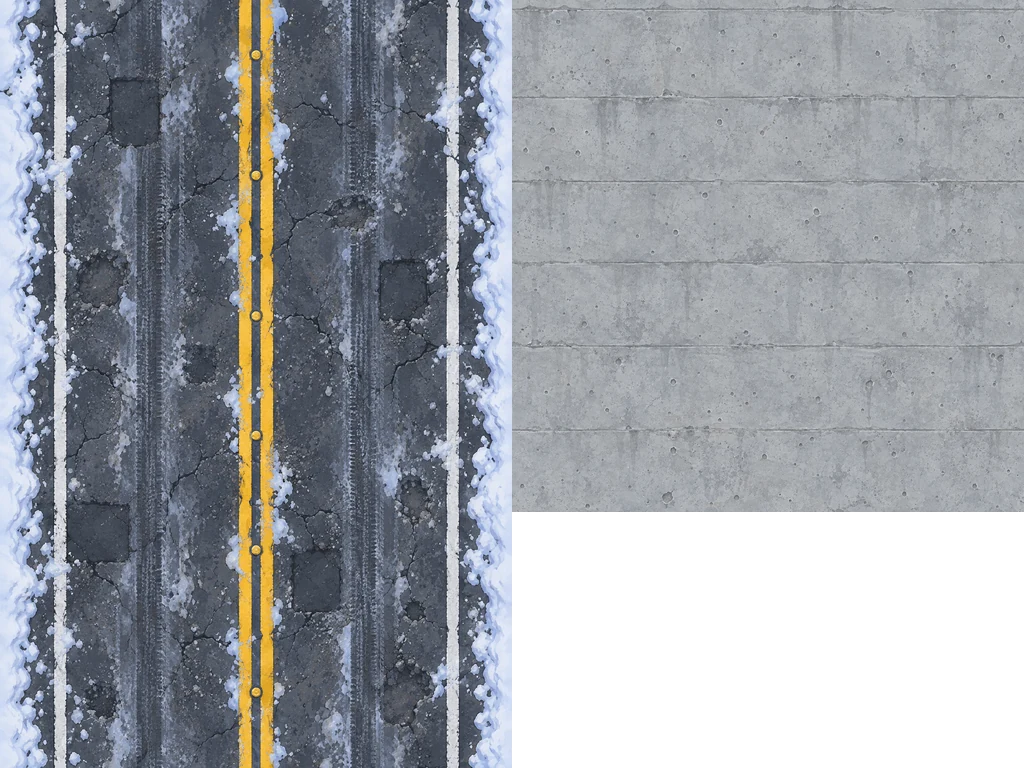
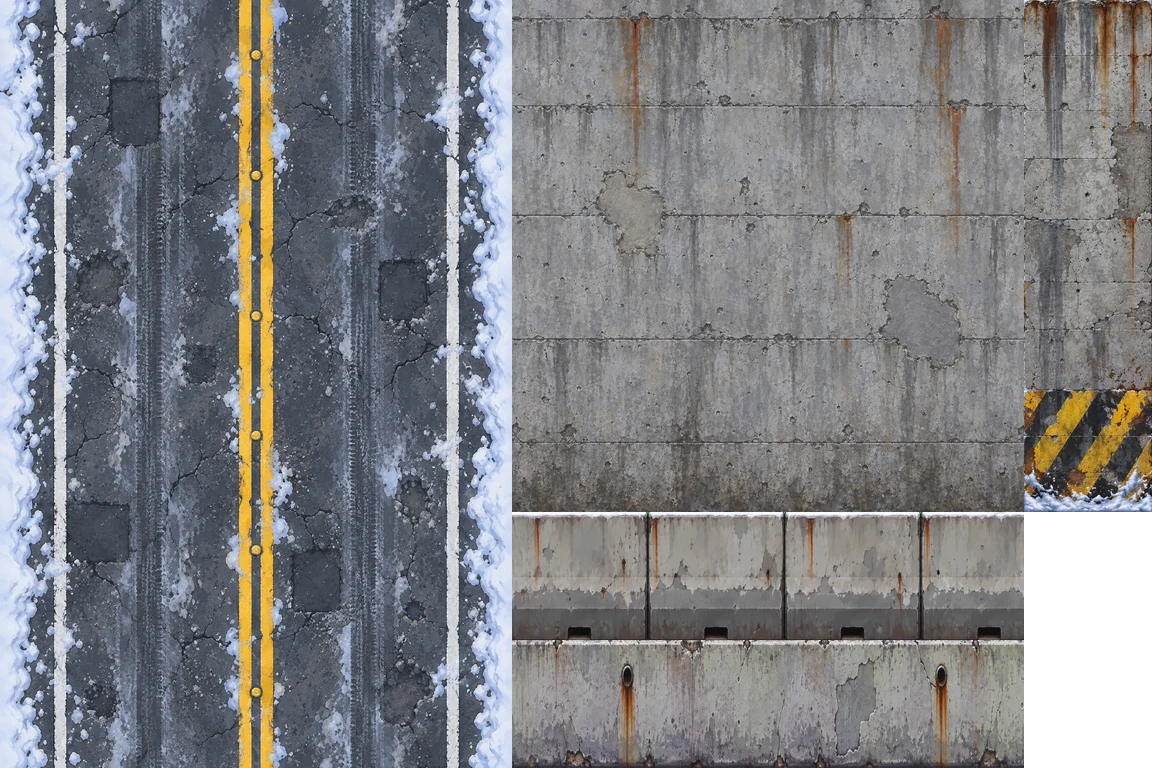
Viaduct sides in old Brazilian concrete (option B): barrier blocks, beam, pillar, pier caps
The user found the plain concrete of the sides and pillars flat. The faces'
atlas now has its own painted region per face (Codex, option B): New Jersey
barrier blocks and the slab's edge beam (bands that tile along, one block a
cell, mapped from the piece's own top to bottom so they follow the ramp), a
pillar's face (hazard stripes at the foot) and the ramp's wall. Each pillar
carries a pier cap under the slab.

diff --git a/src/client/render/city/viaduct.ts b/src/client/render/city/viaduct.ts
@@ -22,6 +22,8 @@ import {UNO_CELL,UNO_FOOT,UNO_KEY,UNO_SCALE,UNO_URL,unoFootY,unoFrame} from '../
 export const DECK_SLAB=.6,PARAPET=.6;
 /** Parapet thickness (u) and pillar side (u). */
 export const PARAPET_WIDTH=.22,PILLAR_SIDE=.8;
+/** The pier cap on each pillar, under the slab (etapa 5, option B): its side and height (u). */
+export const CAP_SIDE=1.3,CAP_HEIGHT=.45;
 /** While the local hero is under the deck, the strips within this radius (u) draw at this alpha (plan §4: ~35 %). */
 export const UNDER_RADIUS=4,UNDER_ALPHA=.35;
 /** Depth keys a body on a deck strip sits above the strip (under the next strip in front: a strip is ~300 keys deep). */
@@ -36,8 +38,8 @@ export const DECK_OVER=.5;
 
 /** A box of the viaduct in world units: its footprint and its top/bottom height at the footprint's 4 corners. */
 export interface ViaductPiece {
-  kind:'deck'|'ramp'|'pillar'|'parapet'|'shadow'|'car';
-  /** Which strip it belongs to (deck and ramp pieces and their parapets share their strip's index; pillars their own). */
+  kind:'deck'|'ramp'|'pillar'|'cap'|'parapet'|'shadow'|'car';
+  /** Which strip it belongs to (deck and ramp pieces and their parapets share their strip's index; a pillar and its cap theirs). */
   strip:number;
   x0:number;y0:number;x1:number;y1:number;
   /** Heights (u) at the corners (x0,y0), (x1,y0), (x1,y1), (x0,y1). */
@@ -80,10 +82,11 @@ export function viaductPieces(v:CityViaduct,unit:number):ViaductPiece[]{
     out.push({kind:'ramp',strip,x0,y0,x1,y1,top,bottom:flat(0)});
     parapets(x0,y0,x1,y1,top,along?c===rc:r===rr,along?c===rc+rw-1:r===rr+rh-1);
   }
-  // Pillars, each its own strip.
+  // Pillars, each its own strip with its cap on top.
   for(const [c,r] of v.pillars){
-    const cx=(c+.5)*unit,cy=(r+.5)*unit,s=PILLAR_SIDE/2;
-    out.push({kind:'pillar',strip:strip++,x0:cx-s,y0:cy-s,x1:cx+s,y1:cy+s,top:flat(h-DECK_SLAB),bottom:flat(0)});
+    const cx=(c+.5)*unit,cy=(r+.5)*unit,s=PILLAR_SIDE/2,k=CAP_SIDE/2,under=h-DECK_SLAB;
+    out.push({kind:'pillar',strip,x0:cx-s,y0:cy-s,x1:cx+s,y1:cy+s,top:flat(under-CAP_HEIGHT),bottom:flat(0)});
+    out.push({kind:'cap',strip:strip++,x0:cx-k,y0:cy-k,x1:cx+k,y1:cy+k,top:flat(under),bottom:flat(under-CAP_HEIGHT)});
   }
   // The deck's shadow on the street (a flat decal, drawn on the ground).
   out.push({kind:'shadow',strip:-1,x0:dc*unit,y0:dr*unit,x1:(dc+dw)*unit,y1:(dr+dh)*unit,top:flat(0),bottom:flat(0)});
@@ -113,13 +116,17 @@ const CAR_RED=0xc0473a,PILE=[0x5b7fa8,0x8f8a7a,0xd6a23c] as const;
 /**
  * The faces' art (etapa 4, scripts/import-viaduto.mjs; round 3 option C, picked by the user): one atlas with the deck's
  * road on the left (top-down, the road along v, both edges snow, the double yellow line in the middle; it tiles along
- * the road) and the concrete on the right (tiles both ways). Under WebGL each strip draws its faces as one Mesh of it
- * (as the city's painted ground, city-layer groundMesh); under Canvas, or until it loads, the flat colours stay.
+ * the road), the concrete wall of the ramp's embankment (tiles both ways), and (etapa 5, option B, old Brazilian
+ * concrete: the user found the plain concrete flat) the barrier's New Jersey blocks and the slab's edge beam (bands
+ * that tile along a side, one block a cell) and a pillar's face (its hazard stripes at the foot). Under WebGL each strip
+ * draws its faces as one Mesh of it (as the city's painted ground, city-layer groundMesh); under Canvas, or until it
+ * loads, the flat colours stay.
  */
 export const FACES_KEY='city:viaduct:faces',FACES_URL='/art/city/viaduto/faces.webp';
-/** The atlas (px) and its two regions: the road tile, the concrete tile. */
-export const FACES_SIZE=[1024,768] as const,FACES_ROAD=[0,0,512,768] as const,FACES_CONCRETE=[512,0,512,512] as const;
-/** Cells of road one road tile covers along the road; cells one concrete tile covers (along a side and up). */
+/** The atlas (px) and its regions: the road tile, the wall tile, the barrier band, the beam band, the pillar's face. */
+export const FACES_SIZE=[1152,768] as const,FACES_ROAD=[0,0,512,768] as const,FACES_CONCRETE=[512,0,512,512] as const,
+  FACES_BARRIER=[512,512,512,128] as const,FACES_BEAM=[512,640,512,128] as const,FACES_PILLAR=[1024,0,128,512] as const;
+/** Cells of road one road tile covers along the road; cells one concrete tile (and one band: 4 blocks) covers along a side (and up). */
 export const ROAD_TILE_CELLS=6,CONCRETE_TILE_CELLS=4;
 /** Texels kept off each region's rim, so linear filtering never reads the region beside it. */
 const FACES_INSET=2;
@@ -153,6 +160,16 @@ export function concreteST(p:ViaductPiece,side:'n'|'e'|'s'|'w',unit:number):[num
   if(s0+(m1-m0)/T>1+1e-6)s0=1-(m1-m0)/T;
   const s=(c:Pt)=>s0+(m(c)-m0)/T,t=(z:number)=>Math.min(1,Math.max(0,1-z/T));
   return [[s(cs[a]),t(p.top[a])],[s(cs[b]),t(p.top[b])],[s(cs[b]),t(p.bottom[b])],[s(cs[a]),t(p.bottom[a])]];
+}
+
+/**
+ * A band's (s, t) at a side's 4 corners (as concreteST): s along the side as the concrete tile's, t from the piece's own
+ * top (0) to its bottom (1), so the band follows a sloped ramp. With `whole`, s runs across the face 0..1 (a pillar's face).
+ */
+export function bandST(p:ViaductPiece,side:'n'|'e'|'s'|'w',unit:number,whole=false):[number,number][]{
+  const st=concreteST(p,side,unit);
+  const s=whole?(st[0][0]<=st[1][0]?[0,1]:[1,0]):[st[0][0],st[1][0]];
+  return [[s[0],0],[s[1],0],[s[1],1],[s[0],1]];
 }
 
 /**
@@ -425,8 +442,9 @@ export class ViaductLayer {
       const i=art?.startsWith('pile')?+art.slice(4):-1,s=this.props.filter(a=>a.prop.floor===1&&a.prop.id.startsWith('carro-batido'))[i]?.sheet;
       return !!s&&this.has(s.key);
     };
-    // Pieces in back-to-front order inside a strip: the slab and the ramp first, then their parapets, then the cars.
-    const rank=(p:ViaductPiece)=>p.kind==='car'?2:p.kind==='parapet'?1:0;
+    // Pieces in back-to-front order inside a strip: the slab and the ramp first, then their parapets, then the cars (a
+    // pillar, then its cap).
+    const rank=(p:ViaductPiece)=>p.kind==='car'?2:p.kind==='parapet'||p.kind==='cap'?1:0;
     const order=[...this.pieces].sort((a,b)=>rank(a)-rank(b));
     for(const p of order){
       const corners=cornersOf(p);
@@ -449,9 +467,19 @@ export class ViaductLayer {
       for(const side of front){
         const [a,b]=SIDE_CORNERS[side],dark=side==='e'||side==='s'?view%2===0:view%2===1,face=[tops[a],tops[b],bottoms[b],bottoms[a]];
         if(textured&&car===undefined){
-          quad(p.strip,face,concreteST(p,side,this.unit),FACES_CONCRETE,dark?TINT_DARK:TINT_LIGHT);
-          // Outlines: the pillar's whole side; the slab's and the parapet's lower edge (the faces carry their own detail).
-          if(p.kind==='pillar')g.lineStyle(1.5,BREU,.55).strokePoints(face,true);
+          const tint=dark?TINT_DARK:TINT_LIGHT;
+          if(p.kind==='ramp'){
+            // The ramp's side: the beam along its top (DECK_SLAB, less at the foot), the embankment's wall under it.
+            const z=(k:number)=>Math.max(0,p.top[k]-DECK_SLAB),mid=[at(corners[a],z(a)),at(corners[b],z(b))];
+            const st=concreteST(p,side,this.unit),band=(k:number)=>Math.min(1,(p.top[k]-z(k))/DECK_SLAB);
+            quad(p.strip,[tops[a],tops[b],mid[1],mid[0]],[[st[0][0],0],[st[1][0],0],[st[1][0],band(b)],[st[0][0],band(a)]],FACES_BEAM,tint);
+            const wall=concreteST({...p,top:[z(0),z(1),z(2),z(3)]},side,this.unit);
+            quad(p.strip,[mid[0],mid[1],bottoms[b],bottoms[a]],wall,FACES_CONCRETE,tint);
+          }else if(p.kind==='pillar')quad(p.strip,face,bandST(p,side,this.unit,true),FACES_PILLAR,tint);
+          else quad(p.strip,face,bandST(p,side,this.unit),p.kind==='parapet'?FACES_BARRIER:FACES_BEAM,tint);
+          // Outlines: the pillar's and the cap's whole side; the slab's and the parapet's lower edge (the faces carry
+          // their own detail).
+          if(p.kind==='pillar'||p.kind==='cap')g.lineStyle(1.5,BREU,.55).strokePoints(face,true);
           else g.lineStyle(1.5,BREU,.55).lineBetween(bottoms[a].x,bottoms[a].y,bottoms[b].x,bottoms[b].y);
           continue;
         }

diff --git a/tests/client/viaduto-arte.test.ts b/tests/client/viaduto-arte.test.ts
@@ -7,7 +7,7 @@
 import test from 'node:test';
 import assert from 'node:assert/strict';
 import {readFileSync} from 'node:fs';
-import {CONCRETE_TILE_CELLS,FACES_CONCRETE,FACES_ROAD,FACES_SIZE,ROAD_TILE_CELLS,VIADUCT_PROP_IDS,concreteST,crosswalkTiles,
+import {CONCRETE_TILE_CELLS,FACES_BARRIER,FACES_BEAM,FACES_CONCRETE,FACES_PILLAR,FACES_ROAD,FACES_SIZE,bandST,ROAD_TILE_CELLS,VIADUCT_PROP_IDS,concreteST,crosswalkTiles,
   regionUv,roadST,viaductPieces,viaductProps} from '../../src/client/render/city/viaduct.ts';
 import {decodeCityAsset} from '../../src/maps/city-asset.ts';
 import {overDeck,onRamp,type CityViaduct} from '../../src/maps/index.ts';
@@ -45,8 +45,23 @@ test('the concrete tile lines up with the cells, keeps narrow pieces inside one 
   assert.ok(Math.abs(Math.min(st[0][0],st[1][0])-(11%CONCRETE_TILE_CELLS)/CONCRETE_TILE_CELLS)<1e-9);
 });
 
-test('atlas coordinates stay inside their region',()=>{
-  for(const r of [FACES_ROAD,FACES_CONCRETE])for(const [s,t] of [[0,0],[1,1]]){
+test('a band (barrier, beam, pillar face) runs from the top of its piece to the bottom, along the side as the concrete tile',()=>{
+  const p=viaductPieces(V,U);
+  for(const q of p.filter(r=>r.kind==='parapet'||r.kind==='deck'||r.kind==='pillar'||r.kind==='cap'))for(const side of ['n','e','s','w'] as const){
+    const st=bandST(q,side,U,q.kind==='pillar'),c=concreteST(q,side,U);
+    assert.deepEqual(st.map(x=>x[1]),[0,0,1,1],`${q.kind} ${side}: t from the top`);
+    if(q.kind==='pillar')assert.deepEqual([st[0][0],st[1][0]].sort(),[0,1],'a pillar face shows the whole texture across');
+    else assert.deepEqual([st[0][0],st[1][0]],[c[0][0],c[1][0]],'s as the concrete tile (one block a cell)');
+  }
+});
+
+test('the atlas regions do not overlap and fit the atlas; coordinates stay inside their region',()=>{
+  const regions=[FACES_ROAD,FACES_CONCRETE,FACES_BARRIER,FACES_BEAM,FACES_PILLAR];
+  for(const [i,a] of regions.entries()){
+    assert.ok(a[0]+a[2]<=FACES_SIZE[0]&&a[1]+a[3]<=FACES_SIZE[1]);
+    for(const b of regions.slice(i+1))assert.ok(a[0]+a[2]<=b[0]||b[0]+b[2]<=a[0]||a[1]+a[3]<=b[1]||b[1]+b[3]<=a[1],`${a} × ${b}`);
+  }
+  for(const r of regions)for(const [s,t] of [[0,0],[1,1]]){
     const [u,v]=regionUv(r,s,t);
     assert.ok(u*FACES_SIZE[0]>r[0]&&u*FACES_SIZE[0]<r[0]+r[2]&&v*FACES_SIZE[1]>r[1]&&v*FACES_SIZE[1]<r[1]+r[3]);
   }

diff --git a/tests/client/viaduto-render.test.ts b/tests/client/viaduto-render.test.ts
@@ -5,7 +5,7 @@
  */
 import test from 'node:test';
 import assert from 'node:assert/strict';
-import {DECK_SLAB,PARAPET,frontSides,viaductPieces} from '../../src/client/render/city/viaduct.ts';
+import {CAP_HEIGHT,CAP_SIDE,DECK_SLAB,PARAPET,frontSides,viaductPieces} from '../../src/client/render/city/viaduct.ts';
 import type {CityViaduct} from '../../src/maps/index.ts';
 
 const V:CityViaduct={id:'v',deck:[10,4,4,8],ramp:{rect:[10,12,4,6],up:'N'},pillars:[[10,6],[13,6]],height:3.5};
@@ -25,7 +25,15 @@ test('a viaduct is drawn cell by cell (deck and ramp), parapets on both outer si
   for(const q of ramp)assert.ok(q.top[0]>q.top[3],'each strip is higher on its north edge');
   const parapet=p.find(q=>q.kind==='parapet'&&q.strip===deck[0].strip)!;
   assert.ok(Math.abs(parapet.top[0]-(3.5+PARAPET))<1e-9);
-  for(const q of p.filter(q=>q.kind==='pillar'))assert.ok(Math.abs(q.top[0]-(3.5-DECK_SLAB))<1e-9&&q.bottom[0]===0);
+  // Etapa 5 (option B): each pillar carries a pier cap under the slab, wider than it, in the pillar's strip.
+  const caps=p.filter(q=>q.kind==='cap');
+  assert.equal(caps.length,2);
+  for(const q of p.filter(q=>q.kind==='pillar')){
+    assert.ok(Math.abs(q.top[0]-(3.5-DECK_SLAB-CAP_HEIGHT))<1e-9&&q.bottom[0]===0);
+    const cap=caps.find(c=>c.strip===q.strip)!;
+    assert.ok(Math.abs(cap.top[0]-(3.5-DECK_SLAB))<1e-9&&Math.abs(cap.bottom[0]-q.top[0])<1e-9,'the cap sits on the pillar, under the slab');
+    assert.ok(Math.abs(cap.x1-cap.x0-CAP_SIDE)<1e-9&&cap.x0<q.x0&&cap.x1>q.x1);
+  }
 });
 
 test('the camera sees two sides of a box in every view, opposite ones after half a turn',()=>{
